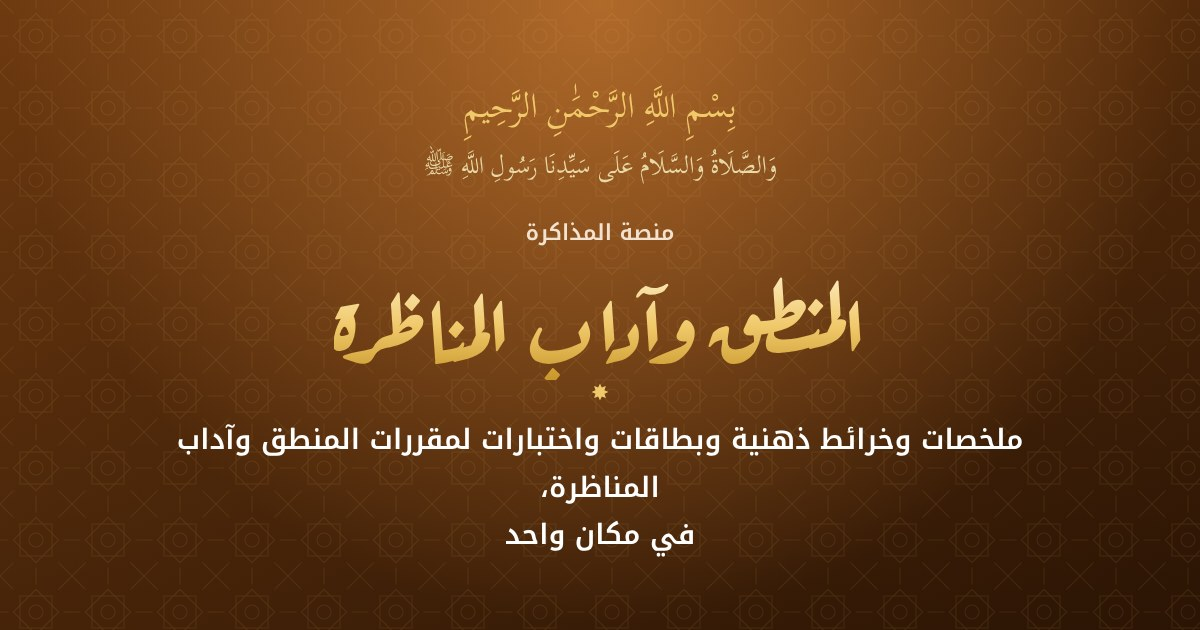
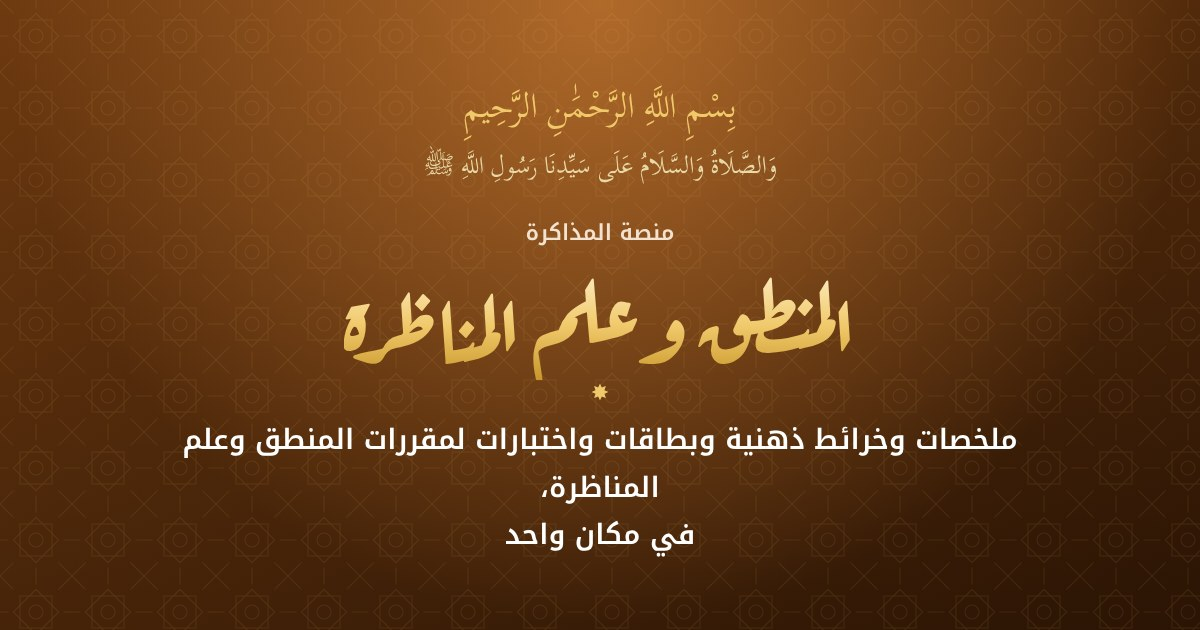
Split the homepage into classical and academic books; rename to «المنطق وعلم المناظرة»
The homepage now has two groups: الكتب التراثية (with the new
Logic & Debate section) and الكتب الأكاديمية (Tafsir, Hadith, Fiqh).
The section is renamed «المنطق وعلم المناظرة», with updated link previews.

Claude-Session: https://claude.ai/code/session_01RsrmXs9CzRyi8TNdU2eVG8

Changed region(s): [[0.2775, 0.4524, 0.74, 0.6032], [0.1542, 0.6635, 0.8633, 0.7238]]

diff --git a/index.html b/index.html
@@ -4,7 +4,7 @@
 <meta charset="utf-8">
 <meta name="viewport" content="width=device-width,initial-scale=1,viewport-fit=cover">
 <title>منصة المذاكرة</title>
-<meta name="description" content="منصة مذاكرة مجانية: التفسير وعلوم القرآن، وعلوم الحديث، والفقه وأصوله، والمنطق وآداب المناظرة، بملخصات وخرائط ذهنية وبطاقات واختبارات.">
+<meta name="description" content="منصة مذاكرة مجانية: التفسير وعلوم القرآن، وعلوم الحديث، والفقه وأصوله، والمنطق وعلم المناظرة، بملخصات وخرائط ذهنية وبطاقات واختبارات.">
 <meta name="theme-color" content="#0b2a52">
 <meta property="og:title" content="منصة المذاكرة">
 <meta property="og:type" content="website">
@@ -15,7 +15,7 @@
 <meta property="og:image:height" content="630">
 <meta property="og:locale" content="ar_AR">
 <meta name="twitter:card" content="summary_large_image">
-<meta property="og:description" content="منصة مذاكرة مجانية: التفسير وعلوم القرآن، وعلوم الحديث، والفقه وأصوله، والمنطق وآداب المناظرة، بملخصات وخرائط ذهنية وبطاقات واختبارات.">
+<meta property="og:description" content="منصة مذاكرة مجانية: التفسير وعلوم القرآن، وعلوم الحديث، والفقه وأصوله، والمنطق وعلم المناظرة، بملخصات وخرائط ذهنية وبطاقات واختبارات.">
 <link rel="icon" href="https://manassa-study.github.io/Tafseer/favicon.png" type="image/png" sizes="48x48"><link rel="icon" href="https://manassa-study.github.io/Tafseer/favicon.svg" type="image/svg+xml"><link rel="apple-touch-icon" href="https://manassa-study.github.io/Tafseer/apple-touch-icon.png">
 <link rel="preconnect" href="https://fonts.googleapis.com">
 <link rel="preconnect" href="https://fonts.gstatic.com" crossorigin>
@@ -161,6 +161,7 @@ footer .du{font-family:var(--f-read);font-size:19px;color:var(--gold-ink);displa
 
 /* summaries (PDF) section */
 .section-label.sub{color:var(--muted);margin:44px 0 16px}
+.grid.one{max-width:560px;margin-inline:auto}
 .card.teal .card-top{background:linear-gradient(150deg,#1f6f78,#0d3b45)}
 .card.gold .card-top{background:linear-gradient(150deg,#8a5c08,#4a2f04)}
 .card.pdf .card-top{min-height:150px}
@@ -184,7 +185,26 @@ footer .du{font-family:var(--f-read);font-size:19px;color:var(--gold-ink);displa
 </header>
 
 <main>
-  <p class="section-label">أقسام المنصة</p>
+  <p class="section-label">الكتب التراثية</p>
+  <div class="grid one">
+
+    <a class="card reveal bronze" href="https://manassa-study.github.io/mantiq.html">
+      <div class="card-top">
+        <span class="icon" aria-hidden="true"><svg viewBox="0 0 24 24" fill="none" stroke="currentColor" stroke-width="1.7" stroke-linecap="round" stroke-linejoin="round"><path d="M4 5h9a2 2 0 0 1 2 2v4a2 2 0 0 1-2 2H8l-4 3z"/><path d="M15 9h3a2 2 0 0 1 2 2v4a2 2 0 0 1-2 2h-1v3l-4-3h-1"/></svg></span>
+        <span class="badge">قسم</span>
+        <h2>المنطق وعلم المناظرة</h2>
+        <p class="en">Logic &amp; the Science of Debate</p>
+      </div>
+      <div class="card-body">
+        <p>المناظرة الرشيدية: التعريفات، ووظائف السائل من منع ونقض ومعارضة، والأبحاث التسعة، وآداب المناظر.</p>
+        <ul class="tags"><li>المناظرة الرشيدية</li></ul>
+        <span class="go">ادخل القسم <svg viewBox="0 0 24 24" fill="none" stroke="currentColor" stroke-width="2.4" stroke-linecap="round" stroke-linejoin="round"><path d="M19 12H5M11 6l-6 6 6 6"/></svg></span>
+      </div>
+    </a>
+
+  </div>
+
+  <p class="section-label sub">الكتب الأكاديمية (مقررات الجامعة)</p>
   <div class="grid">
 
     <a class="card reveal blue" href="https://manassa-study.github.io/Tafseer/">
@@ -227,19 +247,6 @@ footer .du{font-family:var(--f-read);font-size:19px;color:var(--gold-ink);displa
       </div>
     </a>
 
-    <a class="card reveal bronze" href="https://manassa-study.github.io/mantiq.html">
-      <div class="card-top">
-        <span class="icon" aria-hidden="true"><svg viewBox="0 0 24 24" fill="none" stroke="currentColor" stroke-width="1.7" stroke-linecap="round" stroke-linejoin="round"><path d="M4 5h9a2 2 0 0 1 2 2v4a2 2 0 0 1-2 2H8l-4 3z"/><path d="M15 9h3a2 2 0 0 1 2 2v4a2 2 0 0 1-2 2h-1v3l-4-3h-1"/></svg></span>
-        <span class="badge">قسم</span>
-        <h2>المنطق وآداب المناظرة</h2>
-        <p class="en">Logic &amp; the Etiquette of Debate</p>
-      </div>
-      <div class="card-body">
-        <p>المناظرة الرشيدية: التعريفات، ووظائف السائل من منع ونقض ومعارضة، والأبحاث التسعة، وآداب المناظر.</p>
-        <ul class="tags"><li>المناظرة الرشيدية</li></ul>
-        <span class="go">ادخل القسم <svg viewBox="0 0 24 24" fill="none" stroke="currentColor" stroke-width="2.4" stroke-linecap="round" stroke-linejoin="round"><path d="M19 12H5M11 6l-6 6 6 6"/></svg></span>
-      </div>
-    </a>
   </div>
 
   <section class="about reveal">

diff --git a/mantiq.html b/mantiq.html
@@ -3,10 +3,10 @@
 <head>
 <meta charset="utf-8">
 <meta name="viewport" content="width=device-width,initial-scale=1,viewport-fit=cover">
-<title>منصة المذاكرة — المنطق وآداب المناظرة</title>
+<title>منصة المذاكرة — المنطق وعلم المناظرة</title>
 <meta name="description" content="منصة مذاكرة مجانية لمقررات المنطق وآداب البحث والمناظرة: المناظرة الرشيدية، بملخصات وخرائط واختبارات.">
 <meta name="theme-color" content="#3b1d06">
-<meta property="og:title" content="منصة المذاكرة — المنطق وآداب المناظرة">
+<meta property="og:title" content="منصة المذاكرة — المنطق وعلم المناظرة">
 <meta property="og:type" content="website">
 <meta property="og:site_name" content="منصة المذاكرة">
 <meta property="og:url" content="https://manassa-study.github.io/mantiq.html">
@@ -183,7 +183,7 @@ footer .du{font-family:var(--f-read);font-size:19px;color:var(--gold-ink);displa
 </header>
 
 <main>
-  <p class="section-label">مقررات المنطق وآداب المناظرة</p>
+  <p class="section-label">مقررات المنطق وعلم المناظرة</p>
   <div class="grid">
 
     <a class="card reveal bronze" href="mantiq/MunazaraRashidiyaAQU.html">
@@ -204,7 +204,7 @@ footer .du{font-family:var(--f-read);font-size:19px;color:var(--gold-ink);displa
 
   <section class="about reveal">
     <h3>عن المنصة</h3>
-    <p>جُمعت هذه الصفحة لتيسير مذاكرة مقررات المنطق وآداب المناظرة على الطلاب. كل مقرر مرتب أبواباً وفصولاً، ومع كل مطلب ملخص واضح وخريطة ذهنية وبطاقات للحفظ وأسئلة للمراجعة، ثم اختبار محاكي بمؤقت قبل الامتحان. تعمل الصفحات على الجوال والحاسوب.</p>
+    <p>جُمعت هذه الصفحة لتيسير مذاكرة مقررات المنطق وعلم المناظرة على الطلاب. كل مقرر مرتب أبواباً وفصولاً، ومع كل مطلب ملخص واضح وخريطة ذهنية وبطاقات للحفظ وأسئلة للمراجعة، ثم اختبار محاكي بمؤقت قبل الامتحان. تعمل الصفحات على الجوال والحاسوب.</p>
   </section>
 
   <section class="features reveal" aria-label="مميزات المنصة">
